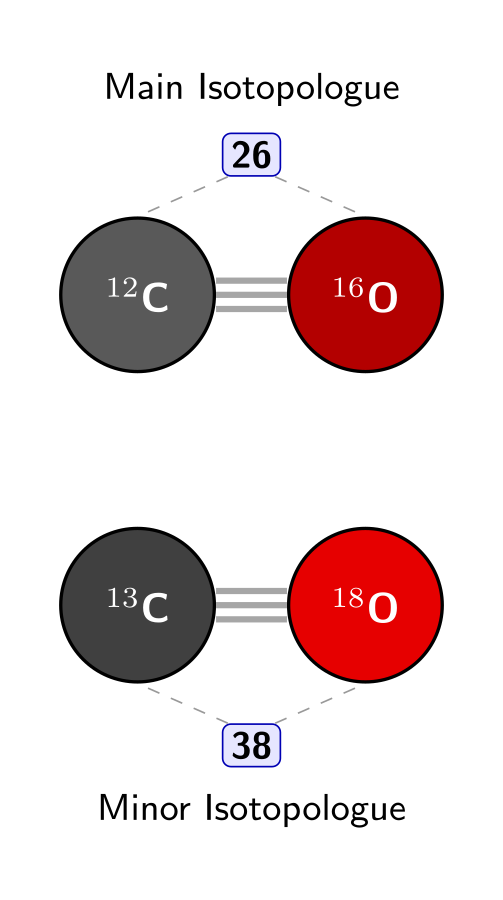
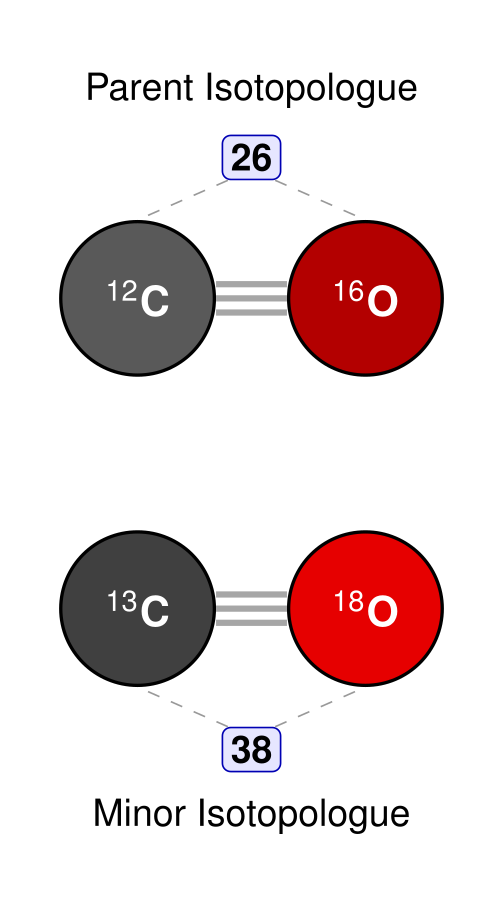
Changed main to parent in all isotopologue figures

diff --git a/Isotopologues/CO2/iso_CO2.tex b/Isotopologues/CO2/iso_CO2.tex
@@ -17,7 +17,7 @@
       atom/.style={circle, draw, thick, minimum size=1.3cm, font=\sffamily\bfseries\color{white}},
       % Style for the double bond
       bond/.style={double, double distance=2pt, line width=1.5pt, gray!70},
-      % Style for the main text labels
+      % Style for the Parent text labels
       label node/.style={text=black, font=\sffamily\small},
       % Style for the guide lines
       guide line/.style={thin, gray!80, dashed},
@@ -26,7 +26,7 @@
    ]
 
     % =======================================================
-    % Top Molecule: Main Isotopologue (12C, 16O, 16O) - 626
+    % Top Molecule: Parent Isotopologue (12C, 16O, 16O) - 626
     % =======================================================
 
     % Position the atoms. The labels are now inside the nodes.
@@ -70,8 +70,8 @@
     \draw[guide line] (num738.north) -- (C_bottom.south);
     \draw[guide line] ($(num738.north) + (0.25cm, 0)$) -- (O2_bottom.south);
 
-    % Labels for Main/Minor Isotopologue - Placed slightly closer
-    \node[label node, above=0.1cm of num626.north] {Main Isotopologue};
+    % Labels for Parent/Minor Isotopologue - Placed slightly closer
+    \node[label node, above=0.1cm of num626.north] {Parent Isotopologue};
     \node[label node, below=0.1cm of num738.south] {Minor Isotopologue};
 
 \end{tikzpicture}

diff --git a/Isotopologues/CO/iso_CO.tex b/Isotopologues/CO/iso_CO.tex
@@ -22,7 +22,7 @@
    ]
 
    % =======================================================
-   % Top Molecule: Main Isotopologue (12C, 16O) - 26
+   % Top Molecule: Parent Isotopologue (12C, 16O) - 26
    % =======================================================
 
    % Atoms
@@ -46,7 +46,7 @@
    \draw[guide line] ($(num26.south) + (0.2cm, 0)$) -- (O_top.north);
 
    % Label
-   \node[label node, above=0.1cm of num26.north] {Main Isotopologue};
+   \node[label node, above=0.1cm of num26.north] {Parent Isotopologue};
 
    % =======================================================
    % Bottom Molecule: Minor Isotopologue (13C, 18O) - 38
